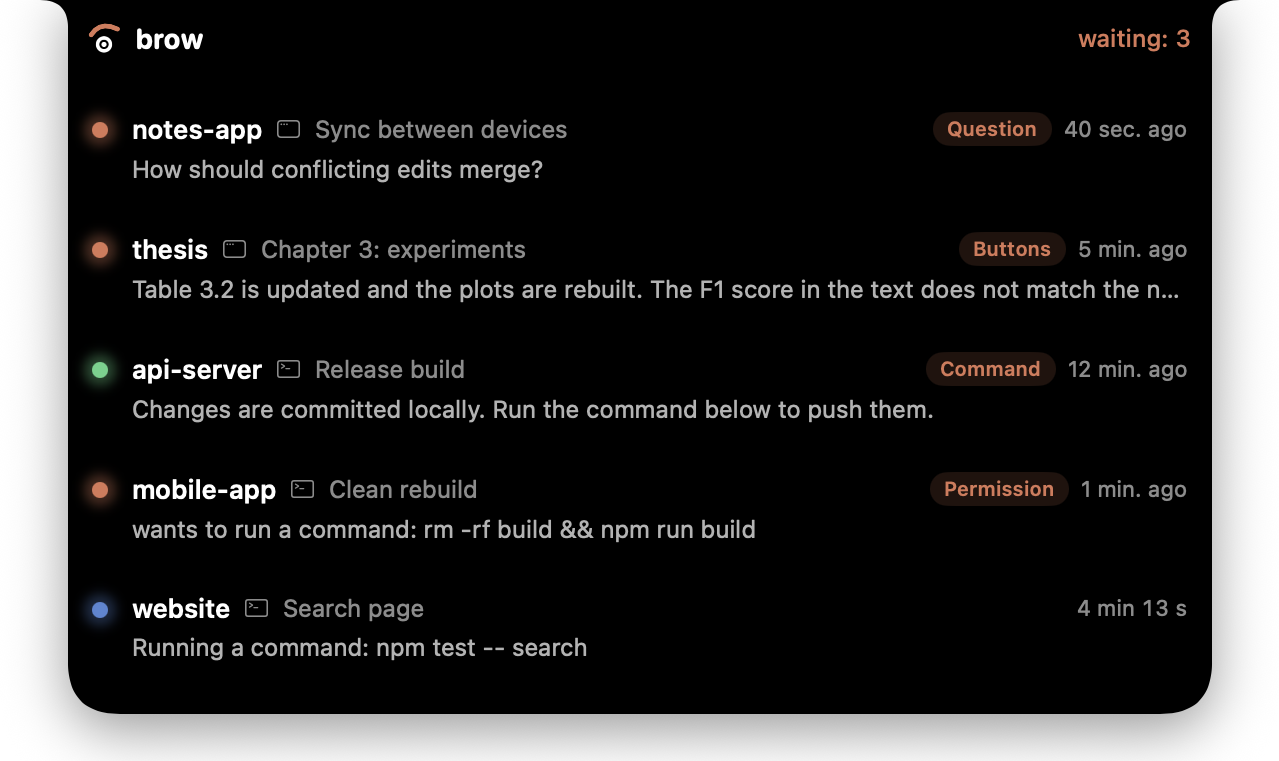
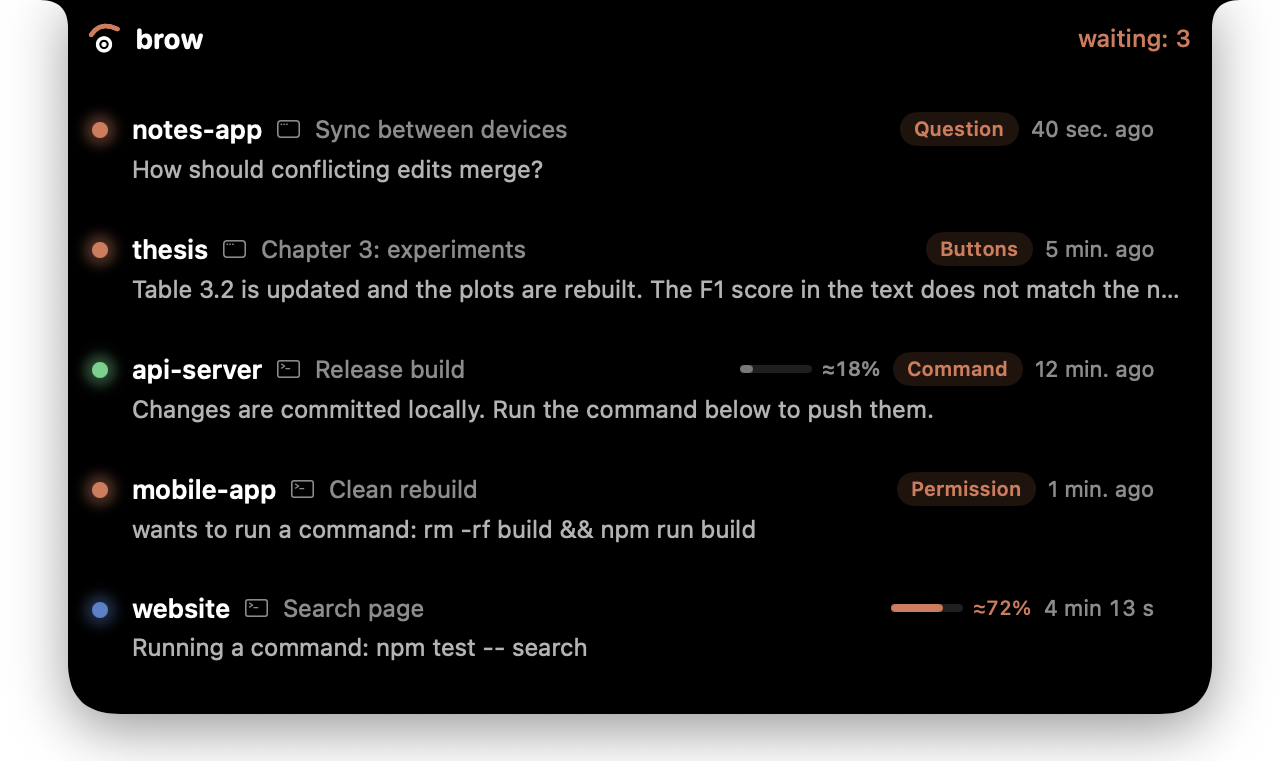
docs: describe the context bar
Feature text in both READMEs, the estimate as a known limitation, the transcript note under privacy, changelog, plan and list screenshots.

diff --git a/README.md b/README.md
@@ -12,6 +12,7 @@ brow lives in the notch and shows where each Claude Code session stands: which o
 
 - **Every session at a glance.** The closed notch shows how many sessions are waiting for you; hover to see them all with their project, title, state and last message.
 - **Live activity.** A working session shows what Claude is doing right now and for how long: `Running a command: npm test · 4 min 12 s`. Hide the command text from the menu if your screen is visible to others.
+- **Context at a glance.** A small bar on each session shows how full its context is, turning orange at 70% and red at 90%, when the notch warns once. The session card adds the token counts.
 - **Alerts you can't miss.** When a session starts waiting, the notch slides down for four seconds and says who needs what. Hover to answer, or ignore it and it tucks away. An optional sound is in the menu. No alert for a session whose app is already in front.
 - **Reply from the notch.** What you type reaches Claude as your next message.
 - **Queue the next step.** While Claude works, write what it should do next. It gets the message the moment it stops, so you can line up work across sessions and walk away.
@@ -94,7 +95,7 @@ To never hold a particular session, put its id on its own line in `~/Library/App
 
 ## Privacy and safety
 
-- Everything stays on your Mac. brow makes no network requests.
+- Everything stays on your Mac. brow makes no network requests. It reads session transcripts only for token counts.
 - The socket is readable only by your user.
 - Commands run only when you press the button, in a new terminal window where you can see them.
 - `brow-hook` never blocks Claude when brow is not running: it exits immediately and prints nothing.
@@ -113,6 +114,7 @@ Right-click the notch → **Disconnect from all Claude sessions…**, quit brow 
 - Typing in the desktop app while brow holds that session has not been tested much; brow lets the session go as soon as the app comes to the front.
 - After a reply from the notch, the desktop app may still draw the old buttons under the message.
 - Refusing a permission in the app or terminal sends brow no event, so its card stays until Claude reports the session idle, about a minute later. Pressing a button on it in that minute does nothing.
+- The context bar is an estimate. Hooks and transcripts do not state the window size, so brow assumes 1M for an explicit `[1m]`, for Opus and past 200K, and 200K otherwise. On a plan where Opus has 200K it reads low. It also relies on Claude Code's transcript format; if that changes, the bar just disappears.
 - The queue lives in memory: quitting brow loses it. A permission prompt or question does not use it, Claude waits for your answer first.
 - Clicking **Open** brings the right app forward, but not the exact session.
 - Sessions that were already running when brow started appear after their next event.

diff --git a/docs/PLAN.md b/docs/PLAN.md
@@ -85,7 +85,7 @@ brow-hook повертає її Claude → Claude працює далі
 
 ## Після першої версії
 
-- 0.2.0: дозволи з нотча (будь-який інструмент через PermissionRequest), сповіщення, коли сесія починає чекати, черга відповідей, жива активність, форматування і прокрутка повідомлень, перший запуск, прибирання старих сесій.
+- 0.2.0: дозволи з нотча (будь-який інструмент через PermissionRequest), сповіщення, коли сесія починає чекати, черга відповідей, жива активність, форматування і прокрутка повідомлень, перший запуск, прибирання старих сесій, смужка контексту.
 
 ## Ризики й відкриті питання
 

diff --git a/CHANGELOG.md b/CHANGELOG.md
@@ -2,6 +2,7 @@
 
 ## 0.2.0 — 2026-10-30
 
+- Context: an estimated fill bar per session, token counts on the card, and one warning at 90%.
 - First run: the notch slides down and offers to connect, then says how to open it.
 - Old sessions: gray after 30 minutes of silence while marked as working, gone after 6 hours unless messages are queued, and removable with × on the row.
 - Messages are formatted (bold, code, lists, headings) and long ones scroll, so the buttons and the reply field stay in reach. Previews show plain text.
